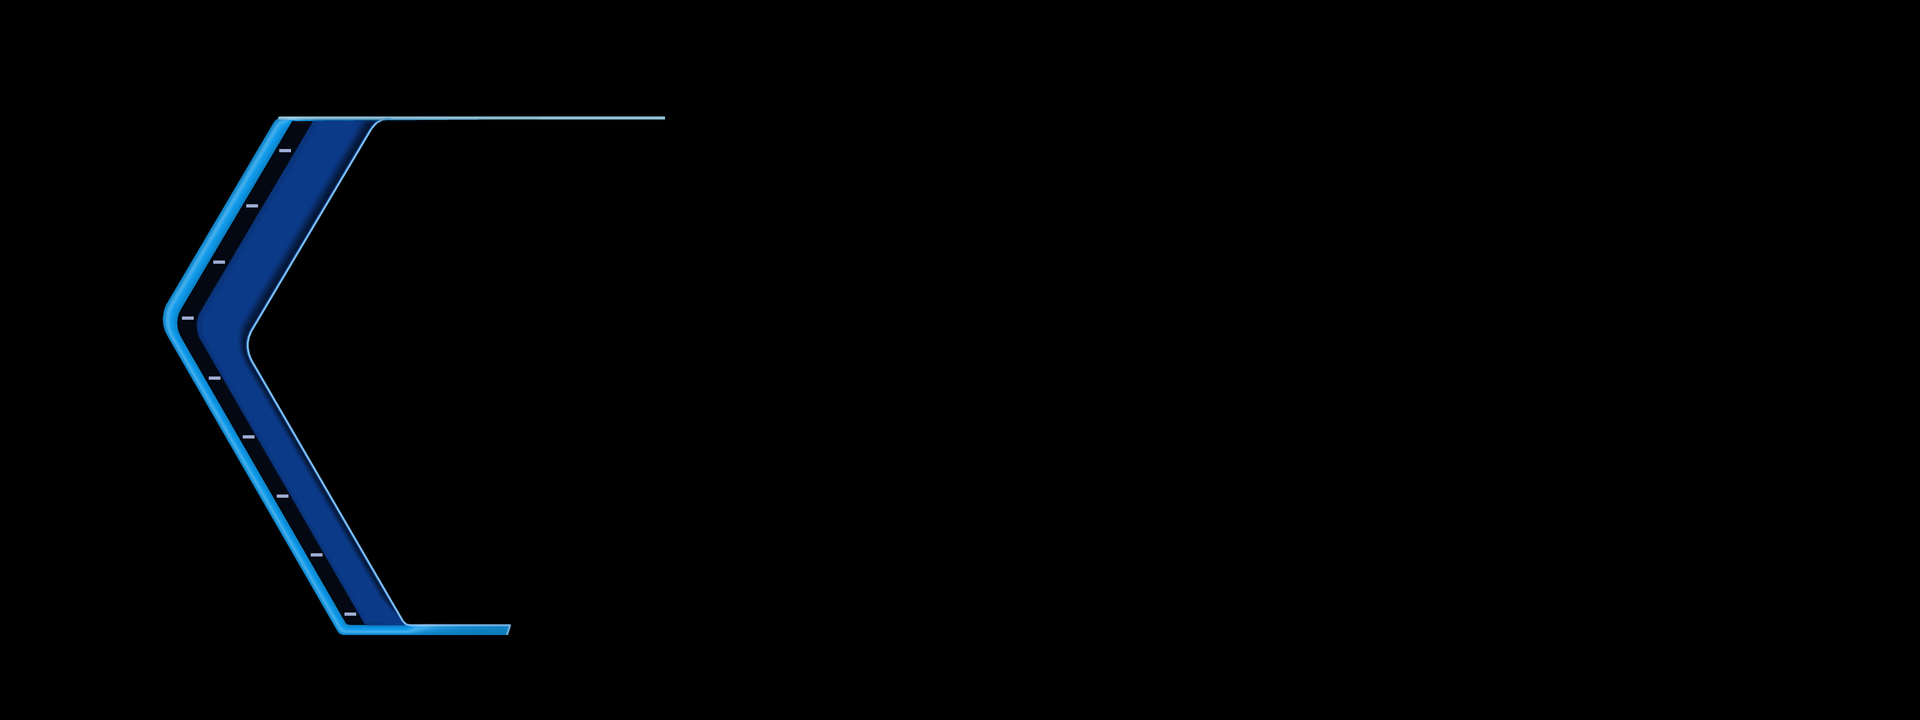
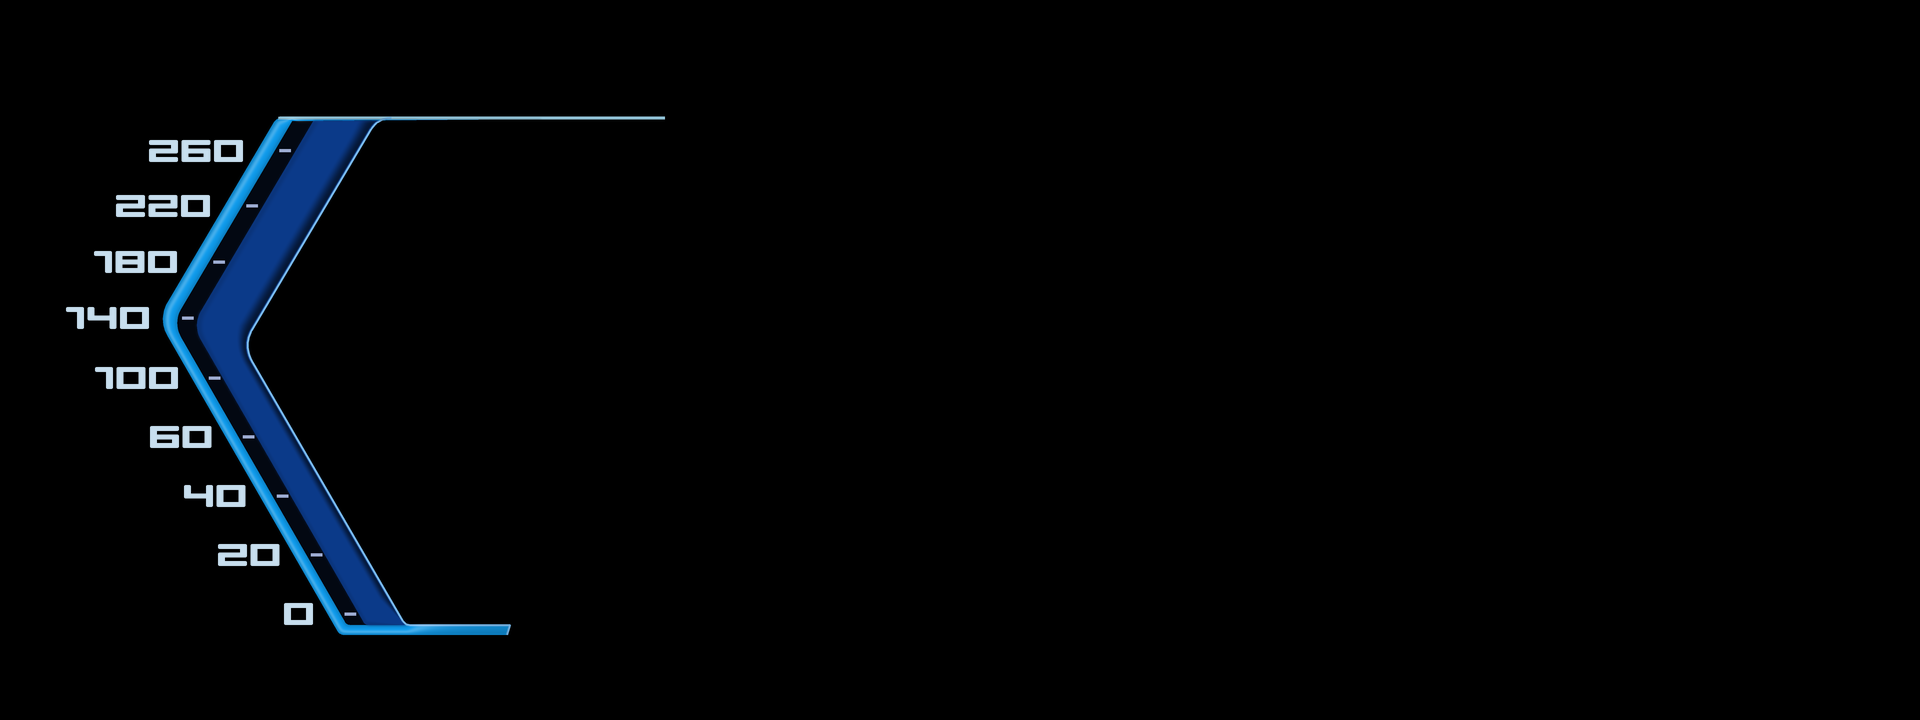
cluster: ID8-A left bracket: the scale's numbers in BMW's squared digits drawn as shapes (260 scale)
Claude-Session: https://claude.ai/code/session_01APCM7bQyWwkFmahRh5zUds

diff --git a/cluster/tools/gen_static.py b/cluster/tools/gen_static.py
@@ -165,6 +165,62 @@ def bevel(img, cfg, el):
     return Image.fromarray(arr, 'RGBA')
 
 
+# BMW's squared digits, measured on the reference (px of a 29 x 22 cell; the 1 is 18 wide): every digit is a union of
+# rounded bars [x0, y0, x1, y1], the 7's stroke a slanted quad. Uprights 7 thick, bars 5, middle bar y 8.5..13.5.
+_T, _M, _B = (0, 0, 29, 5), (0, 8.5, 29, 13.5), (0, 17, 29, 22)
+_L, _R = 7, 22
+DIGITS = {
+    '0': [_T, _B, (0, 0, _L, 22), (_R, 0, 29, 22)],
+    '1': [(0, 0, 18, 5), (11, 0, 18, 22)],
+    '2': [_T, _M, _B, (_R, 0, 29, 13.5), (0, 8.5, _L, 22)],
+    '3': [_T, (7, 8.5, 29, 13.5), _B, (_R, 0, 29, 22)],
+    '4': [(0, 0, _L, 13.5), _M, (_R, 0, 29, 22)],
+    '5': [_T, (0, 0, _L, 13.5), _M, (_R, 8.5, 29, 22), _B],
+    '6': [_T, (0, 0, _L, 22), _M, (_R, 8.5, 29, 22), _B],
+    '7': [_T, ('quad', (20.5, 5), (30, 5), (18, 22), (7, 22))],
+    '8': [_T, _M, _B, (0, 0, _L, 22), (_R, 0, 29, 22)],
+    '9': [_T, (0, 0, _L, 13.5), _M, (_R, 0, 29, 22), _B],
+}
+DIGIT_W = {'1': 18}
+
+
+def draw_number(img, text, x_right, y_mid, h, advance, color, ss=8):
+    """Text of BMW's digits into img (RGBA, grid px), right edge at x_right, centred on y_mid, h px tall."""
+    k = h / 22.0
+    widths = [DIGIT_W.get(ch, 29) * k for ch in text]
+    total = sum(widths) + (advance - 29) * k * (len(text) - 1)
+    x0, y0 = x_right - total, y_mid - h / 2
+    W, H = int(total) + 4, int(h) + 4
+    m = Image.new('L', (W * ss, H * ss), 0)
+    d = ImageDraw.Draw(m)
+    x = 2.0
+    for ch, w in zip(text, widths):
+        for part in DIGITS[ch]:
+            if part[0] == 'quad':
+                d.polygon([((x + px_ * k) * ss, (2 + py * k) * ss) for px_, py in part[1:]], fill=255)
+            else:
+                a, b, c, e = part
+                d.rounded_rectangle([(x + a * k) * ss, (2 + b * k) * ss, (x + c * k) * ss - 1, (2 + e * k) * ss - 1],
+                                    radius=1.6 * k * ss, fill=255)
+        x += w + (advance - 29) * k
+    m = m.resize((W, H), Image.LANCZOS)
+    layer = Image.new('RGBA', (W, H), tuple(color) + (0,))
+    layer.putalpha(m)
+    img.alpha_composite(layer, (int(round(x0)) - 2, int(round(y0)) - 2))
+
+
+def draw_numbers(img, cfg):
+    W, H = cfg['grid']
+    for el in cfg['elements'].values():
+        n = el.get('numbers')
+        if not n:
+            continue
+        out = fillet_polyline(to_px(cfg, el['outline']))
+        for v, yn in zip(el['ticks']['scales'][n['scale']], el['ticks']['y']):
+            y = yn * H
+            draw_number(img, str(v), x_on(out, y) - n['gap'], y, n['h'], n['advance'], n['color'])
+
+
 def build_static(cfg):
     """The static layer, RGBA at grid size: each bracket filled zone by zone (band, gap, stripe), then its lines and marks."""
     W, H = cfg['grid']
@@ -189,6 +245,7 @@ def build_static(cfg):
     for el in cfg['elements'].values():
         if el.get('colors') and 'band' in el:
             img = bevel(img, cfg, el)
+    draw_numbers(img, cfg)
     return img
 
 
